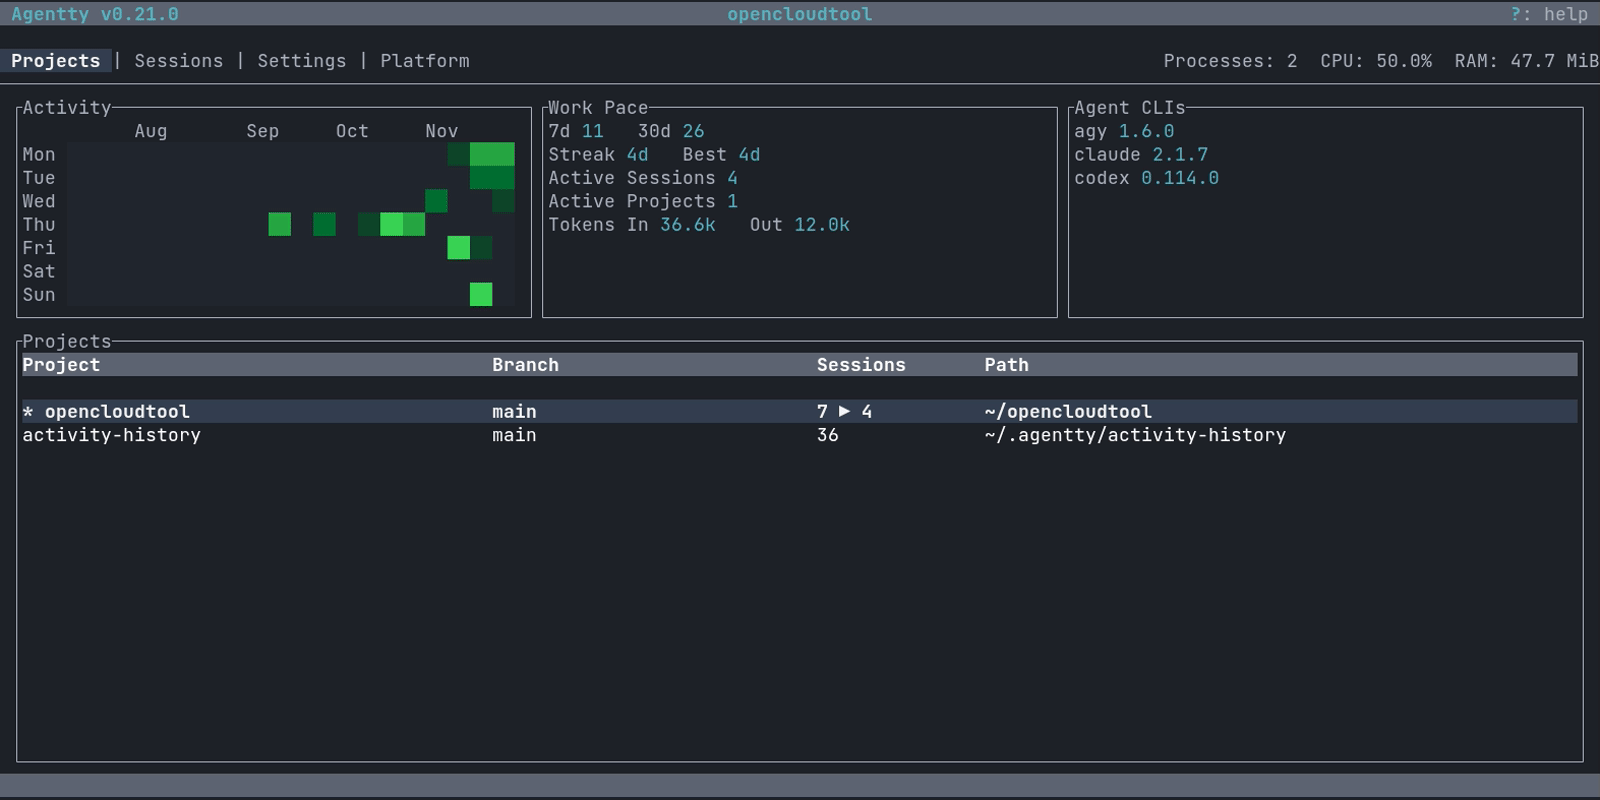
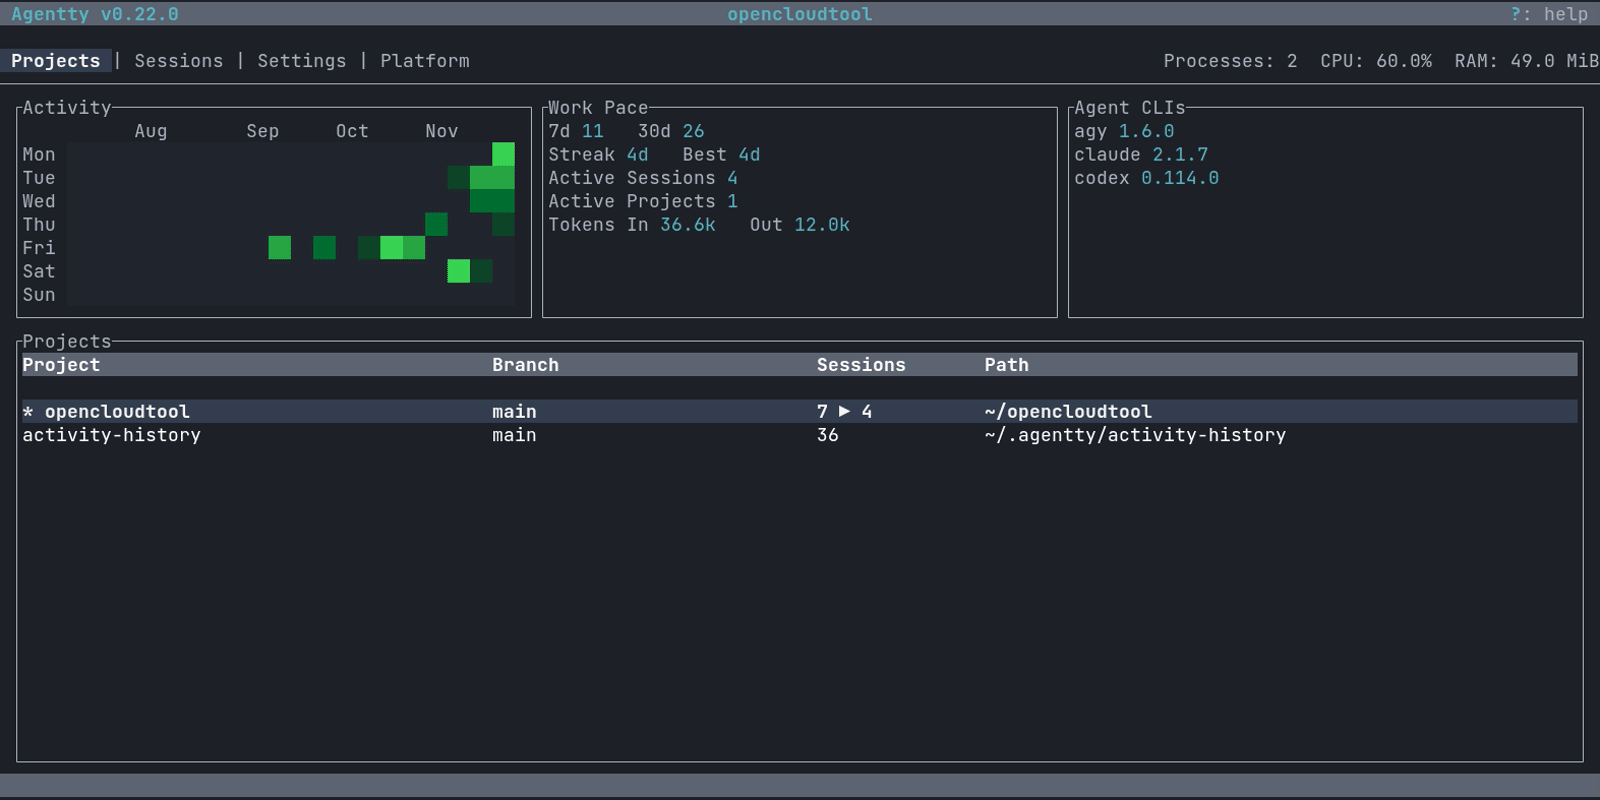
Bump workspace version to 0.22.0
## Why?

The changes since `v0.21.0` are ready to release. Remote control now runs
only through an Agentty Platform, and several published crates change their
public API (`cargo-semver-checks` reports breaking changes in `ag-agent`,
`ag-contracts`, `ag-git`, `ag-harness`, `ag-remote`, `ag-session`,
`ag-store`, and `ag-worker`), so this is a minor release.

## What?

- Move the workspace version and every internal crate requirement to
  `0.22.0` with `ag-release prepare`, and refresh `Cargo.lock`.
- Add the `v0.22.0` changelog entry. It leads with the platform-only remote
  control change and how to re-pair devices, and marks each breaking crate
  API change.
- Re-record the `sessions` and `tab_tour` captures and their posters so they
  show the new version.

## Project impact

Once tagged, this publishes `v0.22.0`. Users of the removed remote-control
flags and `Remote` tab must sign in from the `Platform` tab and re-pair
devices that did not pair through a platform's relay. Crates that depend on
the published `ag-*` crates need to move to `0.22` and adapt to the listed
API changes. The marketing `demo` capture still shows `v0.21.0`.

Changed region(s): [[0.1562, 0.1562, 0.3438, 0.4062]]

diff --git a/CHANGELOG.md b/CHANGELOG.md
@@ -7,6 +7,138 @@ this project adheres to [Semantic Versioning](https://semver.org/spec/v2.0.0.htm
 
 ## [Unreleased]
 
+## [v0.22.0] - 2026-11-26
+
+### Added
+
+- `agentty`: open a per-session usage panel with `/usage`, or `u` in session view, that
+  shows tokens, cache and reasoning detail, estimated cost, and context fill per model
+  and purpose. Plan-billed usage shows its API equivalent (`≈`), and costs that price
+  cached input at the full input price are marked as upper bounds (`≤`).
+- `agentty`: show a running turn's tokens, context fill, and estimated cost in its
+  status line, and the session's context fill and cost on the composer border between
+  turns.
+- `agentty`: show a running turn as one live timeline of messages, reasoning, and tool
+  calls with their results, under a status line that names the current action. A
+  finished turn that called tools gets a summary above its answer: edited files,
+  failures and how the turn recovered from them, and the time it worked.
+- `agentty`: export each turn's and each model request's token usage, cache tokens,
+  estimated cost, and context fill over OTLP, with the `agentty.usage.cost` and
+  `agentty.usage.cache_tokens` counters.
+- `agentty`: let `/graph` add nodes to an execution graph that has not finished instead
+  of starting a second graph; the new nodes spend from the graph's remaining provider
+  calls.
+- `agentty`: let paired devices reach every project the terminal lists: a device can
+  list projects and read, create sessions in, and sync any listed project instead of
+  following the terminal's active project.
+- `agentty`: reuse a per-project cache of crates.io dependencies in sandboxed
+  `ag-harness` sessions, and add the `Share Host Caches` project setting, off by
+  default, that lets sandboxed sessions use the host's Cargo, Go, pip, and npm caches.
+  Its effect is host-wide: a session could plant code that later runs in other projects'
+  builds.
+- `ag-remote`: add the `projects` capability, the `list_projects` request, and an
+  optional `project_id` on project requests.
+- `ag-remote`: add the `test-utils` feature, whose `test_support` module exports
+  `MemoryDeviceStore` and `RecordingBackend`, so a program that embeds `ag-remote` can
+  run a real server in its tests.
+- `ag-session`: add `ProjectScope`, `HostProject`, `ProjectSessions`, and
+  `SessionOperation::Projects`, with `SessionBackend` and `SessionService` methods that
+  list projects and serve, create sessions in, and sync a named project. Hosts that
+  serve only their active project get defaults.
+- `ag-sqlite`: add a crate that owns SQLite opening, WAL creation, locked migrations,
+  and the `begin_write` and `begin_read` transaction helpers for `ag-store` and
+  `ag-harness`.
+- `ag-harness`: report how a command ended with `bash::CommandExit`, including the exit
+  statuses of its final pipeline, plus write line counts, tool-call durations, and a
+  `ToolCallRequested` run event. Add `BashConfig::with_host_cache_directory` and
+  `with_host_cache_file`.
+
+### Changed
+
+- `agentty`: run remote control only through an Agentty Platform; sign in from the
+  `Platform` tab to pair devices (breaking). Devices paired through the loopback
+  listener, a tunnel, or a self-hosted relay can no longer connect: remove them in the
+  `Platform` tab with `d` and pair them again through a platform. Devices already paired
+  through a platform's relay keep working.
+- `agentty`: offer the `Platform` tab on every launch; its label counts connected
+  devices while remote control runs.
+- `agentty`: keep Git metadata read-only for sandboxed `ag-harness` commands. `git add`,
+  `git commit`, `git stash`, and `git checkout -b` fail with a permission error, and
+  Agentty's commit after each turn is the only committer.
+- `agentty`: run read-only execution graph nodes beside the session's serial worker, so
+  independent readers overlap; writing nodes keep their order with chat turns.
+- `agentty`: count a native `ag-harness` run as one provider call against graph and
+  session budgets, the same as one turn attempt of another agent.
+- `agentty`: price cached input at published rates for OpenAI, Muse, Kimi, and Qwen
+  models, and OpenAI prompt-cache writes from GPT-5.6 on at 1.25 times the input price.
+- `agentty`: send the ChatGPT plan prompt cache key as a `session-id` header too, so
+  requests return to their cached prompt prefix.
+- `agentty`: refresh the session header's size and line counts while a turn edits files.
+- `agentty`: leave nested Git repositories in session worktrees out of staging, commits,
+  and the review diff, and stop with an error that names the path when one sits at a
+  gitlink.
+- `agentty`: export Codex's last-request context fill as `agentty.context.input_tokens`
+  on `agent.attempt` spans instead of `agentty.context.last_request.input_tokens`.
+- `agentty`: draw each frame as one synchronized update, so supporting terminals never
+  show a partly drawn frame.
+- `agentty`: show the `Platform` tab's pairing QR code on smaller terminals, and a hint
+  to enlarge the terminal when it cannot fit.
+- `ag-harness`: `bash::CommandOutcome` carries `exit: CommandExit` instead of the
+  `exit_code`, `signal`, and `termination` fields (breaking).
+- `ag-harness`: pin the session temporary directory and writable roots to their identity
+  on macOS, as on Linux, and refuse links and overlapping write grants.
+- `ag-remote`: run only through a relay: `start` is synchronous, opens no listener, and
+  serves no page; `RemoteServerConfig` holds only the relay, and
+  `RemoteServerStatus::relay` is no longer optional; devices authenticate only by their
+  key; and the embedded web client assets are gone (breaking).
+- `ag-relay`: make the relay a library that a platform embeds; it no longer serves a
+  page and has no binary or container image.
+- `ag-contracts`, `ag-agent`, `ag-store`: carry per-model usage, estimated cost, and
+  context fill in turn results, one-shot submissions, and stored turns instead of input
+  and output token totals; add typed activity facts and kinds,
+  `TurnEvent::UsageUpdated`, and `TurnRequest::host_caches`; and remove
+  `TurnEvent::Completed` (breaking).
+- `ag-worker`: name a usage purpose on each `RunScope` (breaking).
+- `ag-session`, `ag-store`: record the graph revision a proposal extends and expand an
+  approved graph in place, and add the `ShareHostCaches` setting (breaking).
+- `ag-git`: add `GitError::EmbeddedRepository` (breaking).
+- `testty`: keep showing the previous screen while a synchronized update is open, as
+  terminals do.
+- workspace: update `clap`, `getrandom`, `regex`, `tokio-rustls`, and `uuid`.
+- release: bump workspace crate metadata and lockfile package versions to `0.22.0`.
+
+### Fixed
+
+- `agentty`: keep each key hint on one row beside the pairing QR code instead of
+  splitting a binding across rows.
+- `agentty`: keep background Git maintenance from pruning a worktree while a session
+  creates it, which could fail the new session.
+- `agentty`: keep a running or queued merge on its own project when the terminal
+  switches projects.
+- `agentty`: reach the relay through another address when one stalls, such as an IPv6
+  route that drops packets.
+- `agentty`: forward termination signals that arrive while the npm launcher starts the
+  binary.
+
+### Removed
+
+- `agentty`: remove the `--experimental-remote`, `--remote-relay`,
+  `--remote-control-port`, `--remote-control-host`, and `--experimental-platform` flags
+  and the `Remote` tab.
+- `ag-remote`: remove the loopback listener, device tokens, `RemoteError::Bind`,
+  `RemoteServerHandle::local_addr`, and `pairing_link` (breaking).
+- `ag-relay`: remove the pairing page, the web-client API, the relay binary with its
+  `--allow-instance` flag, and the `ghcr.io/agentty-xyz/agentty-relay` image.
+- `ag-harness`, `ag-contracts`, `ag-git`: remove `BashConfig::with_git_writes`,
+  `ExecutionPolicy::allows_git_writes` and `git_writes_branch`,
+  `TurnRequest::session_branch`, and `GitClient::head_reference` (breaking).
+
+### Contributors
+
+- @andagaev
+- @dependabot
+- @minev-dev
+
 ## [v0.21.0] - 2026-11-23
 
 ### Added
